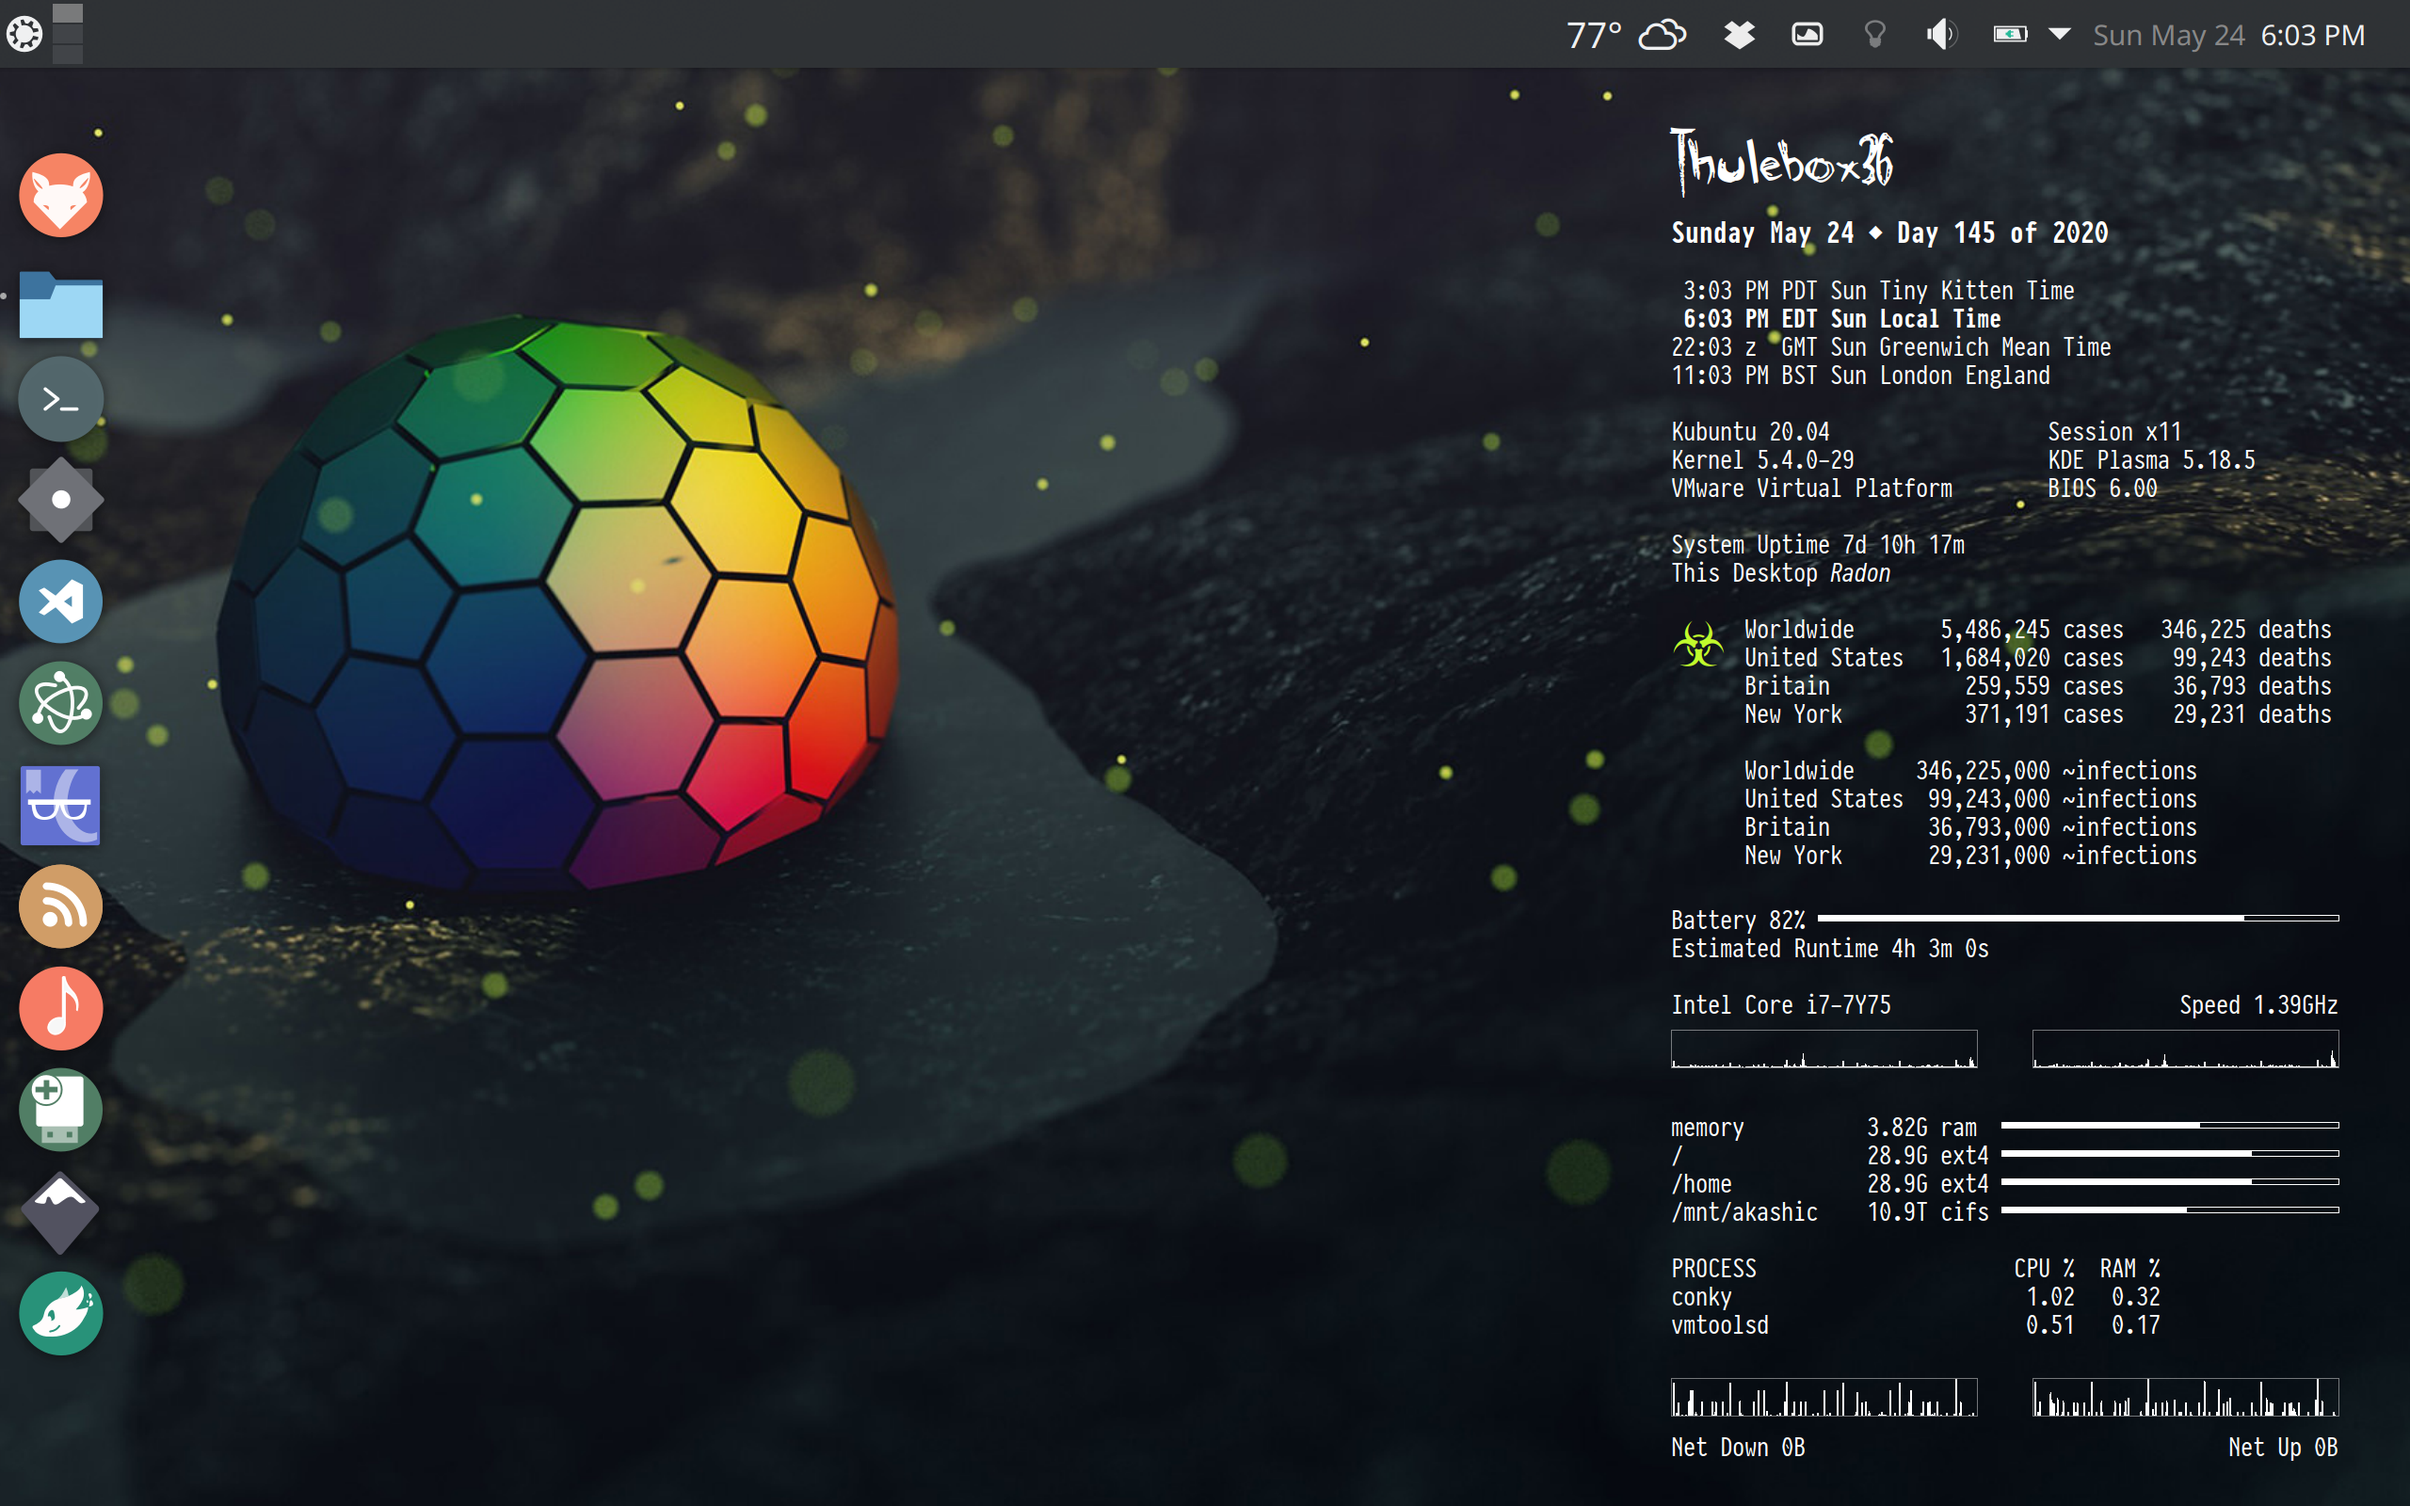
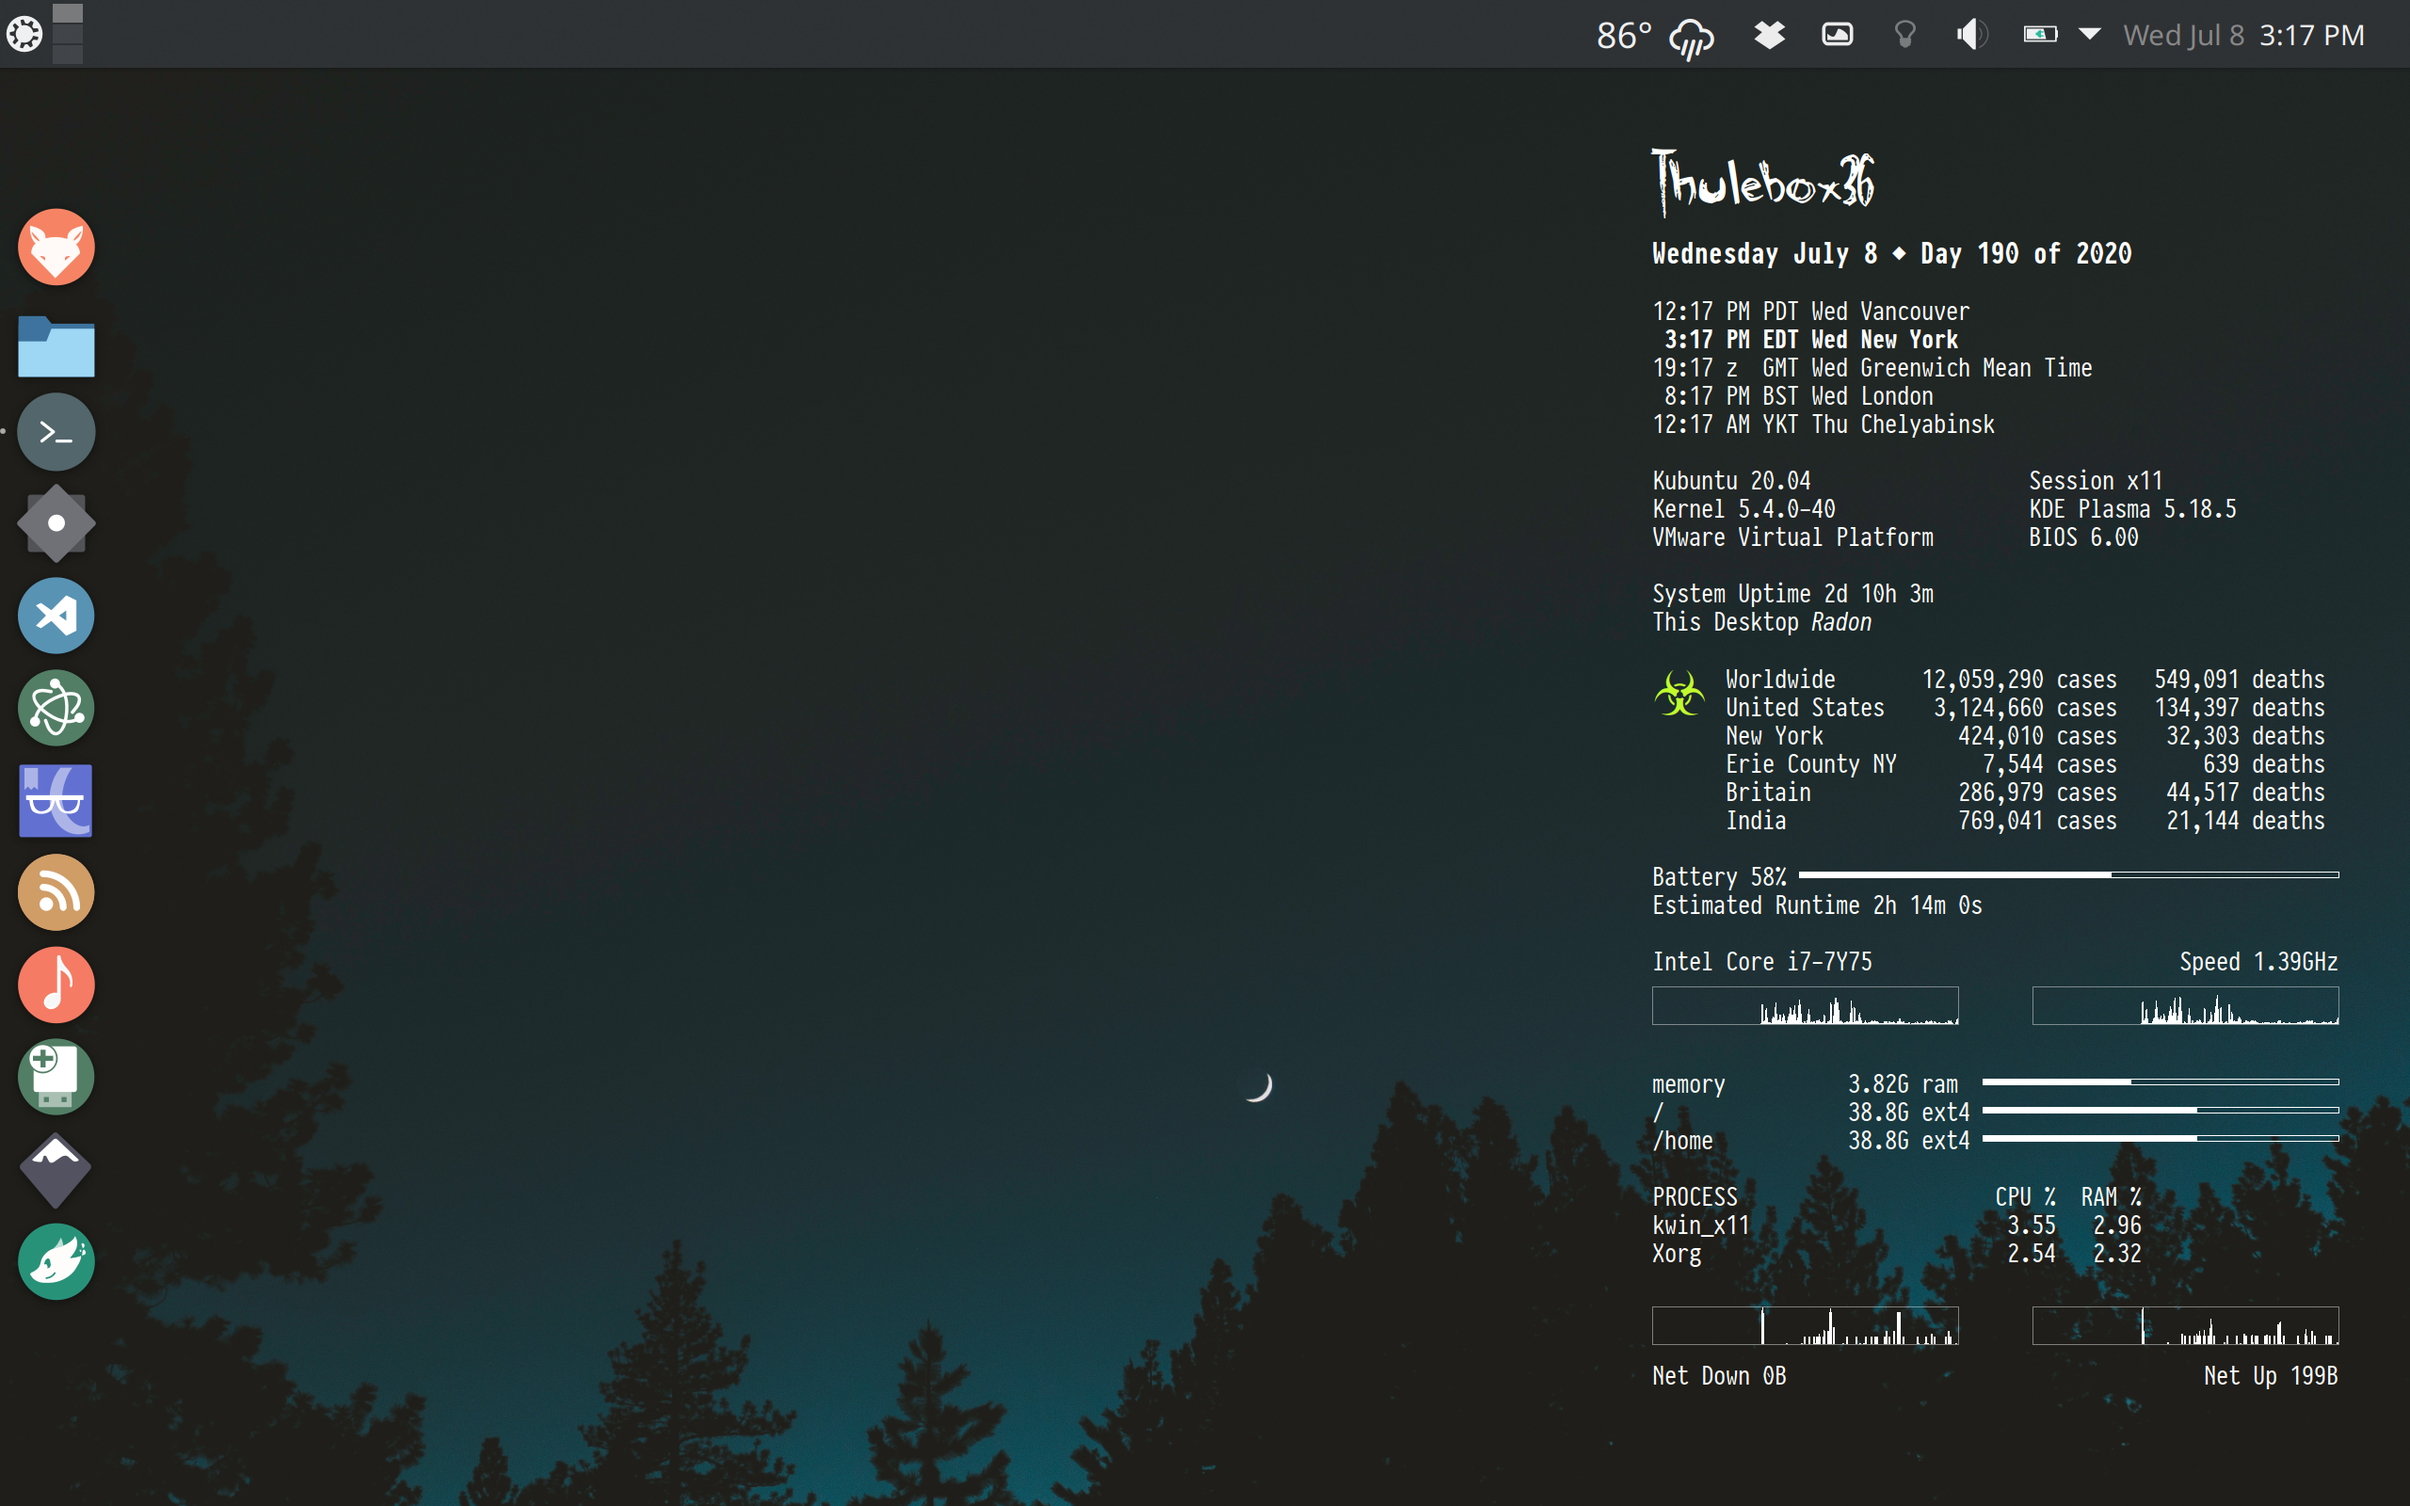
updates

diff --git a/README.md b/README.md
@@ -1,9 +1,15 @@
 # corona-conky2
-Coronavirus stats in conky, now with more formatting
+Coronavirus stats in conky, now using v3 of the disease.sh API
 
-This requires external script files, so it's messier than I'd like, but it does work. It uses bash's printf command with a single quote (') format descriptor which (in the US at least) puts commas every three digits. So 3000000 is formatted as 3,000,000.
+This uses an external script file with bash's printf command with a single quote (') format descriptor which (in the US at least) puts commas every three digits. So 3000000 is formatted as 3,000,000. Special thanks to Avinash H. Duduskar for the single-script design; it's much cleaner!
 
-It is designed to run the conky config `conky.conf` from the directory `~/.config/conky` with the `covid` directory below that.
+It is designed to run the conky config `conky.conf` from the directory `~/.config/conky`. If you use a different directory, set the ${template2} variable in the conky file appropriately.
+
+We now have examples for all cases, by country, by state (US) and by county/province. The "estimates" of total infections were removed as there is no consensus on how to calculate that number.
+
+Rather than a simple conky with only covid information, I posted my current conky, perhaps someone will get an idea or two from it; can't have too many conky examples. Note that yours will look different and probably need tweaking; installed fonts and screen size all affect the look of a conky.
 
 ![](screenshot.png)
+
+Stay safe!
 
